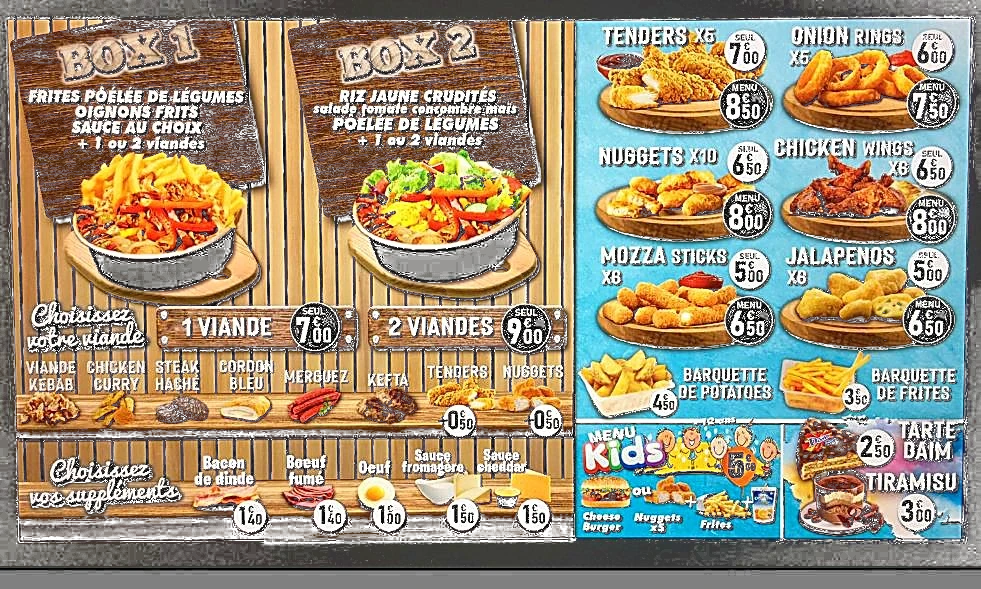
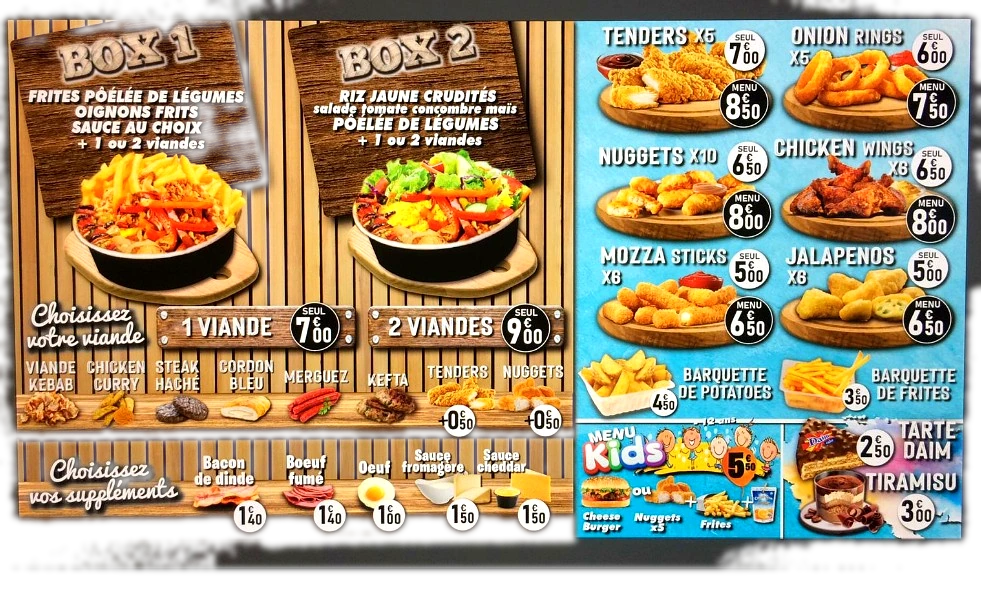
Ameliorer la qualite des photos, horaires 12h-23h, boissons et configurateur desserts
Les photos de la carte sont retravaillees depuis les originaux haute
resolution (images/source), avec nettete/contraste/saturation
rehausses et un detourage plus robuste (remplissage par connexite
depuis les bords) qui elimine les residus noirs restants dans les
coins et le cadre.

Horaires mis a jour partout : ouvert tous les jours de 12h a 23h.

Ajout de 15 references de canettes a 2,00 EUR, et la section
Desserts & Boissons devient composable : un bouton ouvre un
configurateur permettant de selectionner plusieurs desserts/boissons
avec calcul du total, comme pour les tacos et les box.

diff --git a/script.js b/script.js
@@ -42,7 +42,7 @@ const BOARD_SECTIONS = [
   { id: 'box', icon: '🍱', label: 'Box & Accompagnements', img: 'images/carte-box-accompagnements.webp', configType: 'box' },
   { id: 'burgers', icon: '🍔', label: "Best'Of Burgers", img: 'images/carte-burgers.webp' },
   { id: 'tacos', icon: '🌮', label: 'Tacos à composer', img: 'images/carte-tacos.webp', configType: 'tacos' },
-  { id: 'desserts', icon: '🍰', label: 'Kids & Desserts' },
+  { id: 'desserts', icon: '🍰', label: 'Desserts & Boissons', configType: 'goodies' },
 ];
 
 const DESSERTS = [
@@ -50,6 +50,26 @@ const DESSERTS = [
   { name: 'Tarte Daim', desc: 'Part de tarte au Daim.', price: 2.5 },
   { name: 'Tiramisu', desc: 'Tiramisu maison.', price: 3.0 },
 ];
+
+const DRINKS = [
+  { name: 'Coca-Cola', desc: 'Canette 33cl.', price: 2.0 },
+  { name: 'Coca-Cola Zero', desc: 'Canette 33cl.', price: 2.0 },
+  { name: 'Fanta Orange', desc: 'Canette 33cl.', price: 2.0 },
+  { name: 'Fanta Citron', desc: 'Canette 33cl.', price: 2.0 },
+  { name: 'Sprite', desc: 'Canette 33cl.', price: 2.0 },
+  { name: 'Ice Tea Citron', desc: 'Canette 33cl.', price: 2.0 },
+  { name: 'Ice Tea Pêche', desc: 'Canette 33cl.', price: 2.0 },
+  { name: 'Oasis Tropical', desc: 'Canette 33cl.', price: 2.0 },
+  { name: 'Orangina', desc: 'Canette 33cl.', price: 2.0 },
+  { name: "Schweppes Agrum'", desc: 'Canette 33cl.', price: 2.0 },
+  { name: '7Up', desc: 'Canette 33cl.', price: 2.0 },
+  { name: 'Perrier', desc: 'Canette 33cl.', price: 2.0 },
+  { name: 'Minute Maid Orange', desc: 'Canette 33cl.', price: 2.0 },
+  { name: 'Tropico', desc: 'Canette 33cl.', price: 2.0 },
+  { name: 'Eau minérale', desc: 'Bouteille 50cl.', price: 2.0 },
+];
+
+const GOODIES = [...DESSERTS, ...DRINKS];
 
 /* ============ STATE ============ */
 const RESTAURANT_TEL = '+33961643625';
@@ -74,6 +94,7 @@ function renderMenu() {
         <section class="board-section${i % 2 ? ' alt' : ''}" id="desserts">
           <div class="container">
             <div class="cat-heading reveal"><span class="icon">${section.icon}</span><h2>${section.label}</h2></div>
+            <p class="dessert-subhead reveal">Desserts</p>
             <ul class="dessert-list reveal">
               ${DESSERTS.map((d) => `
                 <li>
@@ -82,6 +103,18 @@ function renderMenu() {
                 </li>
               `).join('')}
             </ul>
+            <p class="dessert-subhead reveal">Boissons <span class="hint">(2,00 € la canette)</span></p>
+            <ul class="dessert-list dessert-list-drinks reveal">
+              ${DRINKS.map((d) => `
+                <li>
+                  <div><h3>${d.name}</h3><p>${d.desc}</p></div>
+                  <span class="dessert-price">${fmt(d.price)}</span>
+                </li>
+              `).join('')}
+            </ul>
+            <div class="board-pills reveal">
+              <button class="pill-btn" data-config-type="goodies">🍰🥤 Composer desserts & boissons</button>
+            </div>
           </div>
         </section>`;
     }
@@ -123,12 +156,19 @@ document.addEventListener('click', (e) => {
   const pill = e.target.closest('[data-config-type]');
   if (pill) {
     const type = pill.dataset.configType;
+    if (type === 'goodies') return openGoodiesConfigurator();
     const idx = parseInt(pill.dataset.configIdx, 10);
     openConfigurator(type === 'tacos' ? TACOS_SIZES[idx] : BOX_TYPES[idx]);
   }
 });
 
 /* ============ CONFIGURATOR ============ */
+function openGoodiesConfigurator() {
+  configState = { type: 'goodies', selections: new Set() };
+  renderConfigurator();
+  toggleModal('#configurator-overlay', true);
+}
+
 function openConfigurator(item) {
   if (item.configurable === 'tacos') {
     configState = {
@@ -161,6 +201,14 @@ function configViandeCount() {
   return def.viandeCount;
 }
 function configTotal() {
+  if (configState.type === 'goodies') {
+    let goodiesTotal = 0;
+    configState.selections.forEach((name) => {
+      const g = GOODIES.find((x) => x.name === name);
+      if (g) goodiesTotal += g.price;
+    });
+    return goodiesTotal;
+  }
   let total = configBasePrice();
   if (configState.type === 'tacos') {
     configState.viandes.forEach((name) => {
@@ -193,6 +241,30 @@ function optionHTML(name, selected, disabled, extraLabel) {
 }
 
 function renderConfigurator() {
+  if (configState.type === 'goodies') {
+    const ready = configState.selections.size > 0;
+    const html = `<div class="config-header">
+      <h2>Desserts & boissons</h2>
+      <p>Sélectionnez tout ce que vous voulez ajouter à votre commande.</p>
+    </div>
+    <div class="config-step"><h4>Desserts</h4>
+      <div class="option-grid">
+        ${DESSERTS.map((d) => optionHTML(d.name, configState.selections.has(d.name), false, fmt(d.price)).replace('data-option=', 'data-goodie=')).join('')}
+      </div>
+    </div>
+    <div class="config-step"><h4>Boissons <span class="hint">(2,00 € la canette)</span></h4>
+      <div class="option-grid">
+        ${DRINKS.map((d) => optionHTML(d.name, configState.selections.has(d.name), false, fmt(d.price)).replace('data-option=', 'data-goodie=')).join('')}
+      </div>
+    </div>
+    <div class="config-footer">
+      <div class="config-total"><span>Total estimé</span>${fmt(configTotal())}</div>
+      <button class="btn btn-primary" id="config-call" ${ready ? '' : 'disabled'}>📞 Appeler pour commander</button>
+    </div>`;
+    $('#configurator-content').innerHTML = html;
+    return;
+  }
+
   const { item, type } = configState;
   const viandeCount = configViandeCount();
   let html = `<div class="config-header">
@@ -255,6 +327,12 @@ function renderConfigurator() {
 document.addEventListener('click', (e) => {
   if (!configState) return;
 
+  const goodie = e.target.closest('[data-goodie]');
+  if (goodie) {
+    const name = goodie.dataset.goodie;
+    configState.selections.has(name) ? configState.selections.delete(name) : configState.selections.add(name);
+    return renderConfigurator();
+  }
   const priceSel = e.target.closest('[data-price-select]');
   if (priceSel) {
     const def = configState.item.prices.find((p) => p.label === priceSel.dataset.priceSelect);

diff --git a/index.html b/index.html
@@ -13,7 +13,7 @@
 
 <div class="top-bar">
   <div class="container top-bar-inner">
-    <span class="top-bar-item">🕘 Ouvert tous les jours · 11h30-1h</span>
+    <span class="top-bar-item">🕘 Ouvert tous les jours · 12h-23h</span>
     <button class="top-bar-item top-bar-location open-location" type="button">📍 284 Rue de Bourgogne, 45000 Orléans</button>
   </div>
 </div>
@@ -68,7 +68,7 @@
 <section class="carte-gallery" id="carte">
   <p class="eyebrow center">Notre carte</p>
   <h2 class="section-title center">La carte, telle qu'affichée en boutique</h2>
-  <p class="carte-info">🕘 Ouvert tous les jours · 11h30-1h &nbsp;·&nbsp; <button class="open-location" type="button">📍 284 Rue de Bourgogne, 45000 Orléans</button></p>
+  <p class="carte-info">🕘 Ouvert tous les jours · 12h-23h &nbsp;·&nbsp; <button class="open-location" type="button">📍 284 Rue de Bourgogne, 45000 Orléans</button></p>
   <div class="carte-scroll" id="carte-scroll">
     <div class="carte-track" id="carte-track">
       <div class="carte-frame"><div class="carte-slide"><img src="images/carte-assiettes-wraps-pitas.webp" alt="Carte : assiettes, wraps, pitas et paninis" loading="lazy"><div class="carte-steam"><span></span><span></span><span></span><span></span></div></div><div class="carte-steam-escape"><span></span><span></span><span></span><span></span></div></div>
@@ -196,7 +196,7 @@
       <ul>
         <li><button class="open-location" type="button">📍 284 Rue de Bourgogne, 45000 Orléans</button></li>
         <li><a href="tel:+33961643625">📞 09 61 64 36 25</a></li>
-        <li>🕘 Ouvert tous les jours de 11h30 à 1h</li>
+        <li>🕘 Ouvert tous les jours de 12h à 23h</li>
         <li>💶 1–10 € par personne</li>
         <li>🌳 Terrasse · 🌿 Option végétarienne · 📶 Wi-Fi</li>
       </ul>

diff --git a/style.css b/style.css
@@ -554,6 +554,18 @@ h1, h2, h3 {
 }
 .pill-btn:hover { background: var(--ember); border-color: var(--ember); color: #fff8f2; }
 
+.dessert-subhead {
+  max-width: 700px;
+  margin: 0 auto 14px;
+  font-weight: 800;
+  font-size: 0.95rem;
+  color: var(--gold);
+  text-transform: uppercase;
+  letter-spacing: 0.04em;
+}
+.dessert-subhead .hint { color: var(--muted); font-weight: 600; text-transform: none; letter-spacing: 0; font-size: 0.8rem; }
+.dessert-subhead:not(:first-of-type) { margin-top: 36px; }
+
 .dessert-list {
   list-style: none;
   max-width: 700px;
@@ -562,6 +574,7 @@ h1, h2, h3 {
   flex-direction: column;
   gap: 14px;
 }
+.dessert-list-drinks { margin-bottom: 28px; }
 .dessert-list li {
   display: flex;
   align-items: center;
